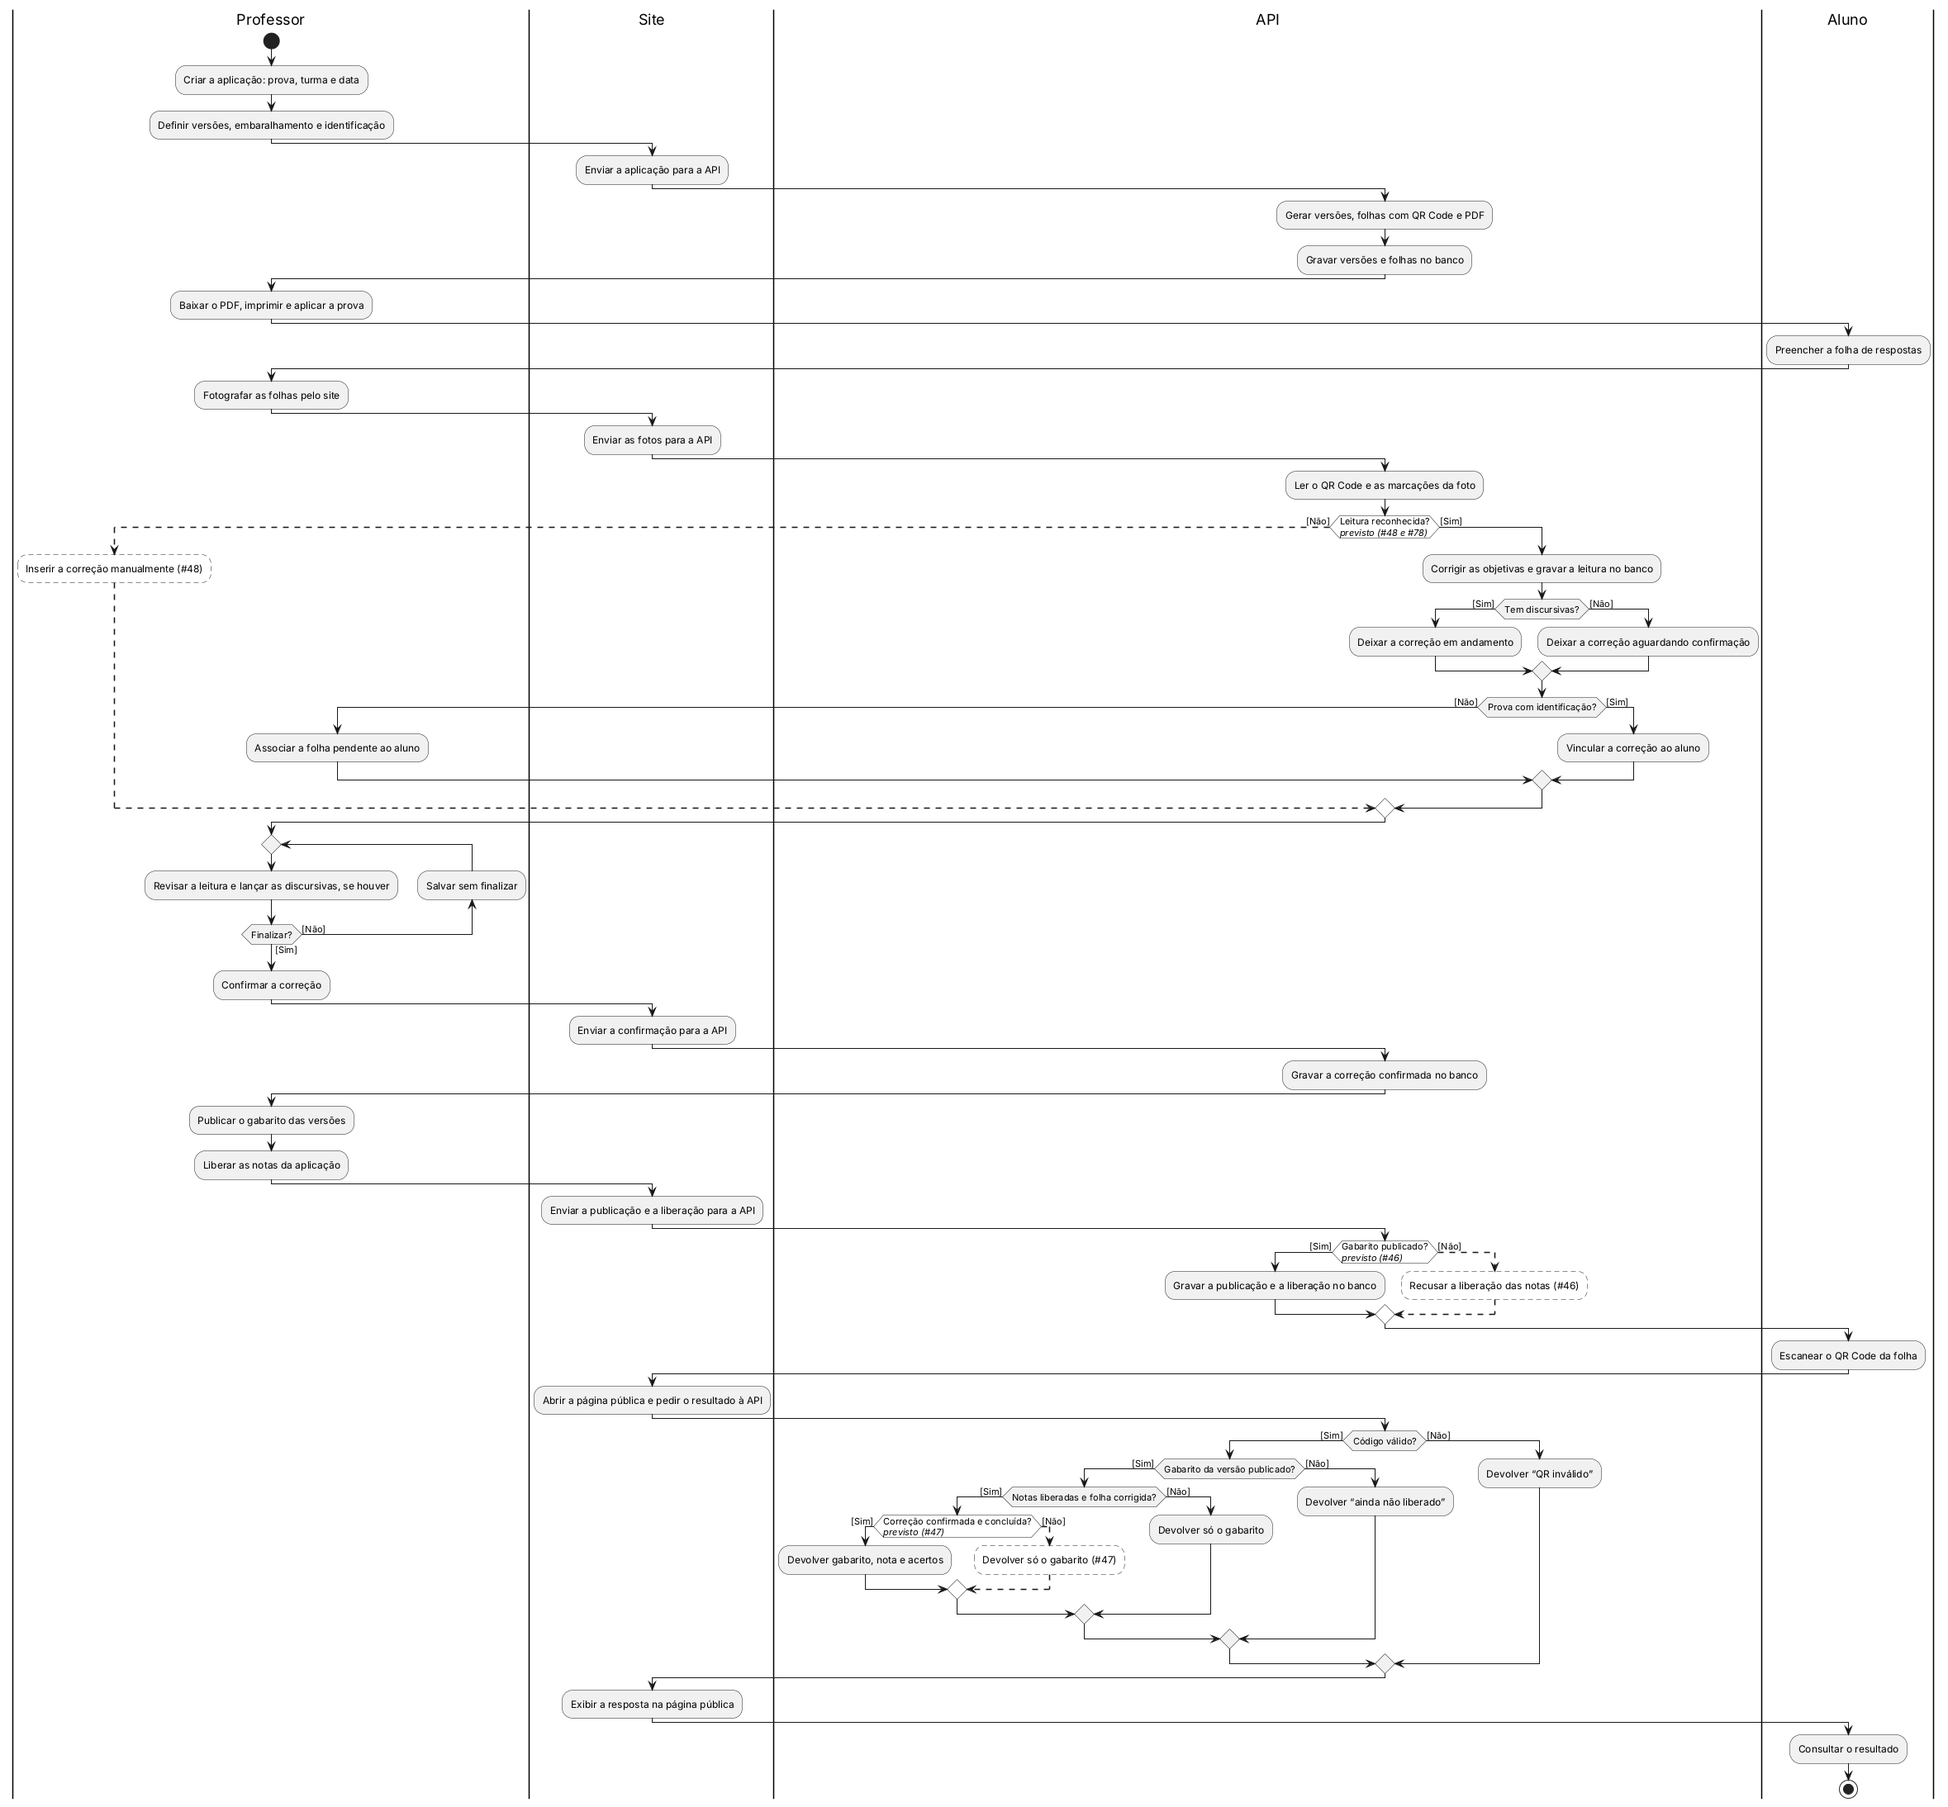
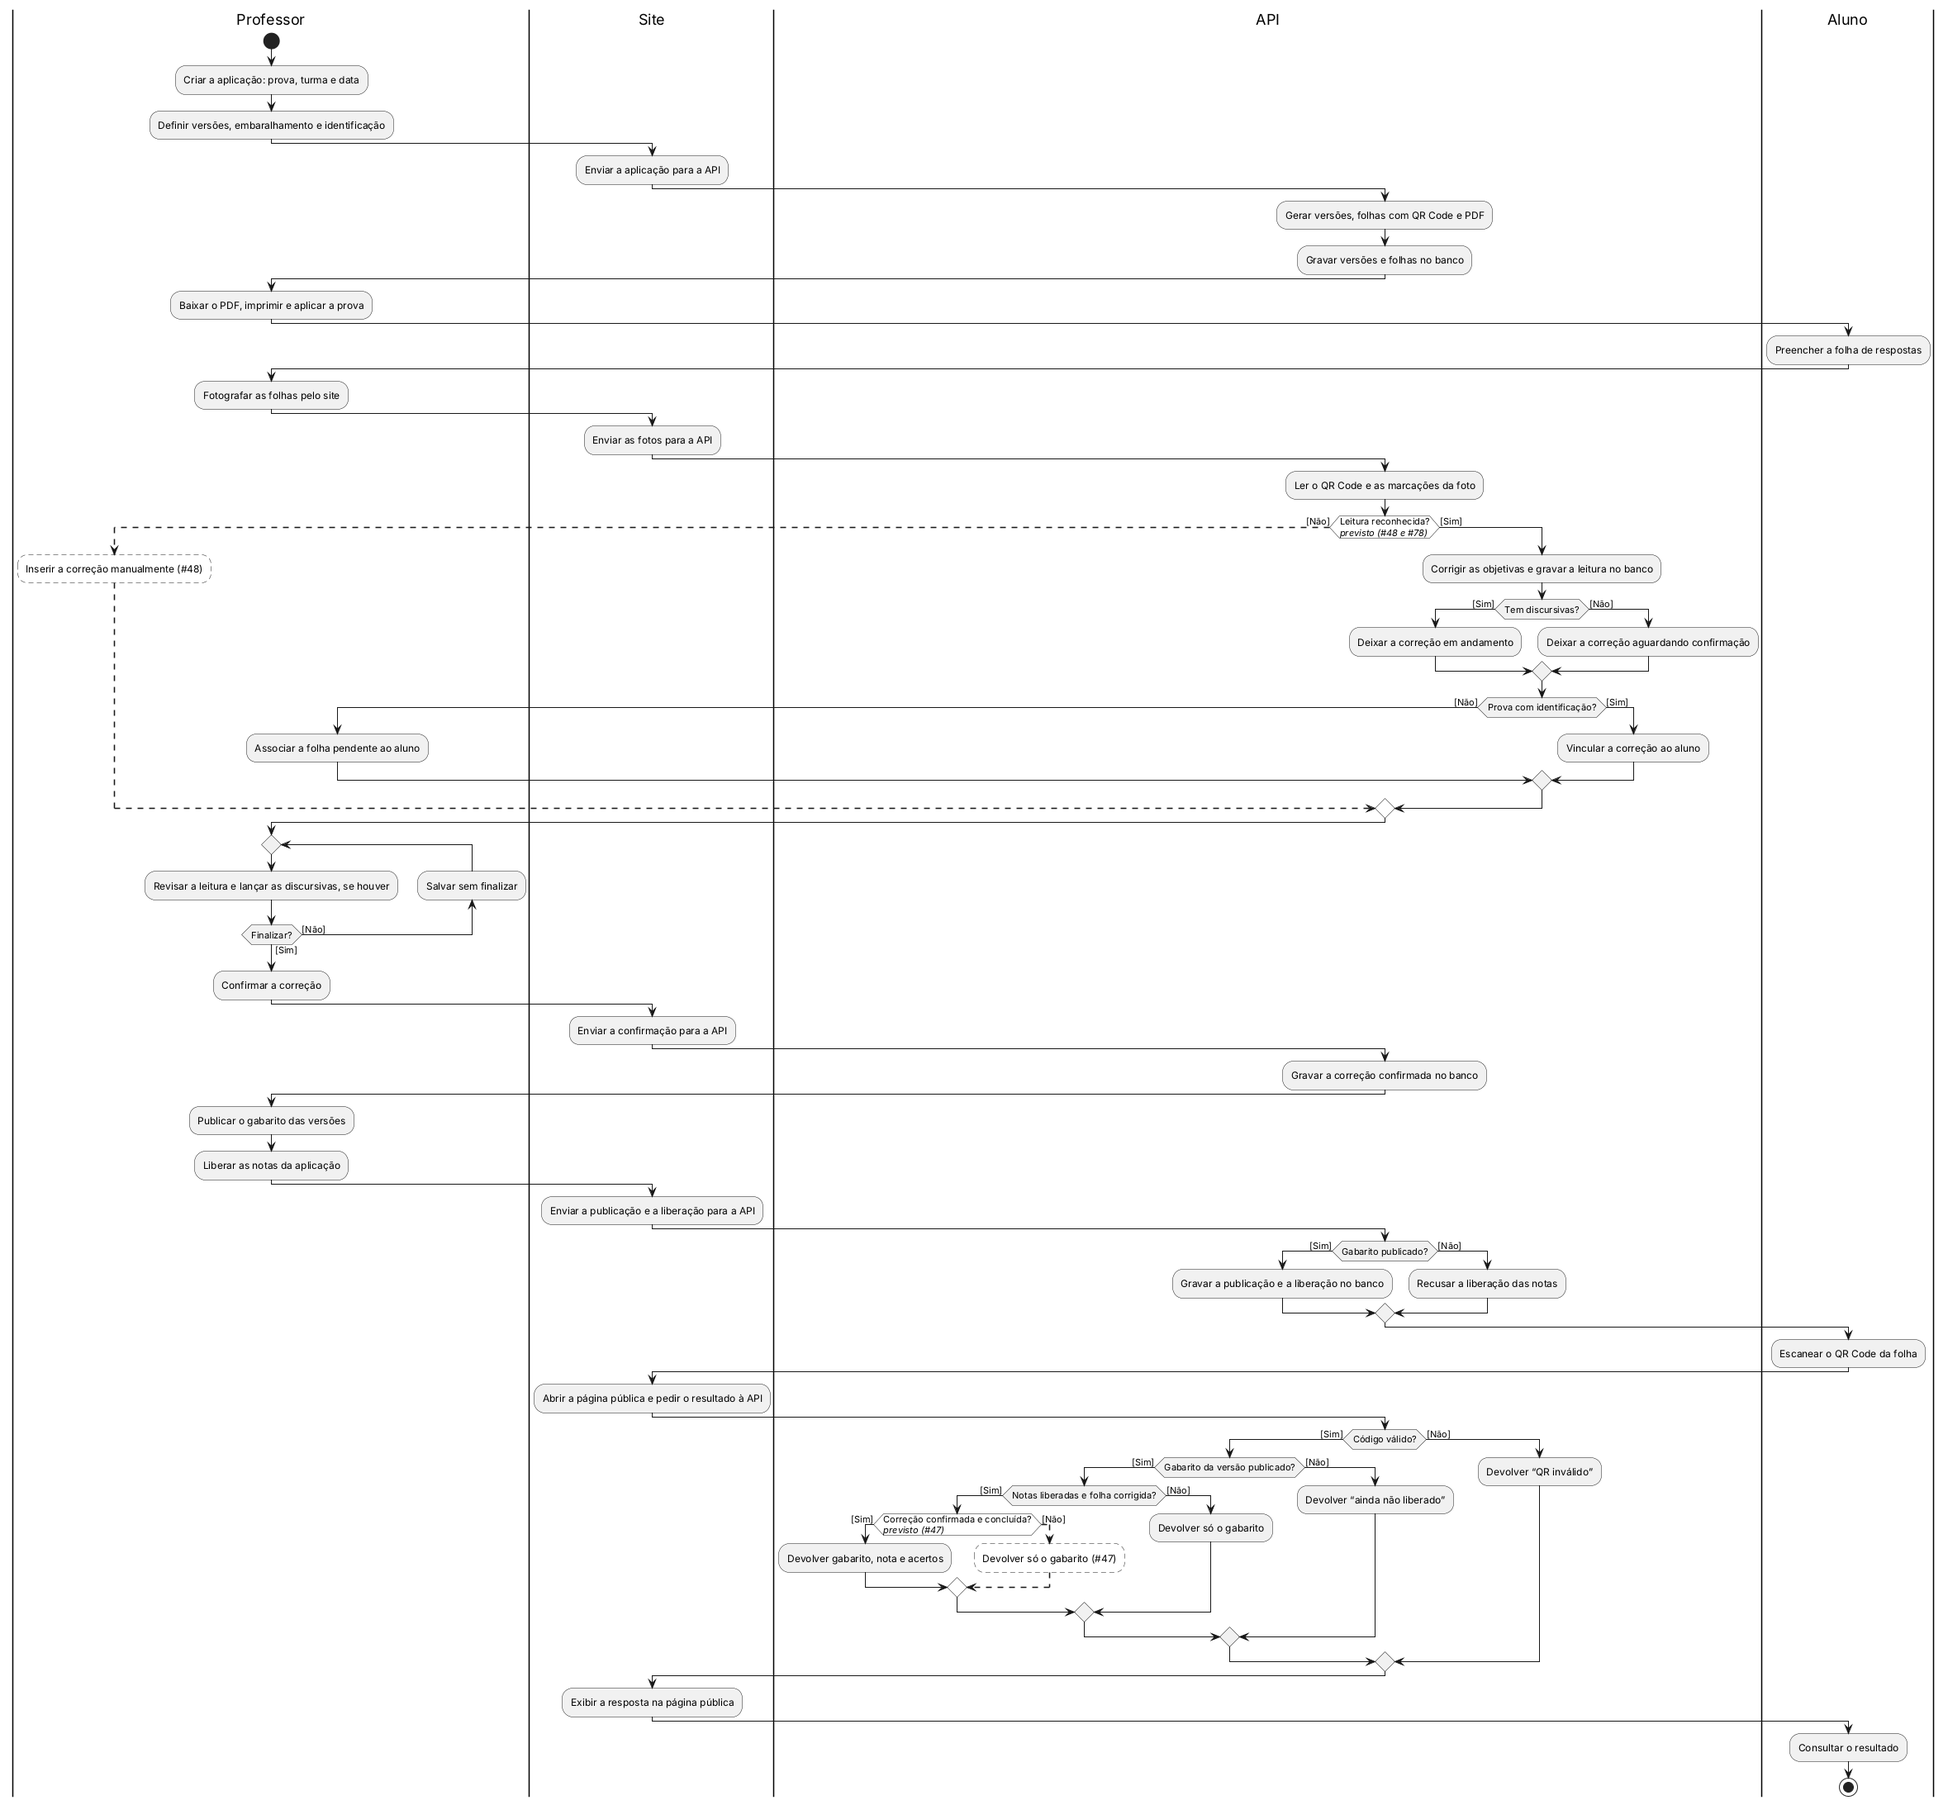
docs: describe the writes of applications and draw the answer key check solid
The API README describes creating, editing and generating an application,
the refusals of the generation and the newest-first list, and the exams
section says who calls markReady.

In the activity diagram, "Gabarito publicado?" turns from planned to solid:
the API refuses releasing the grades without the answer key since part 1 of
#46. The image is generated again with PlantUML 1.2025.8, and the document
keeps the two points still planned, for #47 and #48.

diff --git a/docs/uml/activity-diagram/activity-diagram.md b/docs/uml/activity-diagram/activity-diagram.md
@@ -68,8 +68,7 @@ diagrama, com a issue que os implementa ao lado, e viram linha cheia quando essa
 12. O Site envia a confirmação para a API, que grava a correção confirmada no banco.
 13. O Professor publica o gabarito das versões e libera as notas da aplicação, e o Site envia
     a publicação e a liberação para a API.
-14. **Decisão:** o gabarito está publicado? _Previsto na N2 ([#46]): hoje "Liberar notas"
-    funciona mesmo sem o gabarito publicado (tela P14)._
+14. **Decisão:** o gabarito está publicado?
     - **[Sim]** → a API grava a publicação e a liberação no banco.
     - **[Não]** → a API recusa a liberação das notas.
 15. O Aluno escaneia o QR Code da folha, e o Site abre a página pública, sem login, e pede o
@@ -102,7 +101,7 @@ outra que o dado sai do navegador e chega ao banco.
 | ------------- | ------------------------------------------------------- | ------------------------------------------------------------------------------------------------------------------------------------------------------------------------------------------------------------------------------------------------------------------------------------------------------------------------------------------------ |
 | **Professor** | Único usuário com login                                 | Criar a aplicação; definir versões, embaralhamento e identificação; baixar o PDF, imprimir e aplicar a prova; fotografar as folhas pelo site; inserir a correção manualmente quando a leitura falha (previsto); associar a folha pendente ao aluno; revisar, lançar as discursivas e confirmar a correção; publicar o gabarito; liberar as notas |
 | **Site**      | O front-end em React, aberto no navegador               | Enviar para a API a aplicação, as fotos, a confirmação, a publicação e a liberação; abrir a página pública do QR Code e exibir a resposta da API                                                                                                                                                                                                 |
-| **API**       | O back-end em Express, a única parte que acessa o MySQL | Gerar versões, folhas com QR Code e PDF; ler o QR Code e as marcações; corrigir as objetivas; controlar o status da correção; vincular a correção ao aluno; gravar tudo no banco; decidir o que a página pública mostra; recusar a liberação das notas sem gabarito publicado (previsto)                                                         |
+| **API**       | O back-end em Express, a única parte que acessa o MySQL | Gerar versões, folhas com QR Code e PDF; ler o QR Code e as marcações; corrigir as objetivas; controlar o status da correção; vincular a correção ao aluno; gravar tudo no banco; decidir o que a página pública mostra; recusar a liberação das notas sem gabarito publicado                                                         |
 | **Aluno**     | Não tem conta; é um registro dentro da turma            | Preencher a folha de respostas; escanear o QR Code da folha; consultar o resultado                                                                                                                                                                                                                                                               |
 
 **Por que o banco não é uma raia:** o MySQL não toma decisões nem começa atividades; ele só
@@ -157,9 +156,10 @@ casos, o professor pode salvar sem finalizar e voltar depois, até confirmar a c
 ### Etapa 5 — Publicação e consulta pelo QR Code
 
 Por fim, incluímos a publicação do gabarito, a liberação das notas e os quatro resultados
-possíveis da página do QR Code (PUB1), todos decididos pela API. Dois pontos desta etapa
-ficam tracejados: a recusa da liberação sem o gabarito publicado (P14, [#46]) e a nota só
-depois da confirmação do professor (RNF07 e RF47, [#47]). Esta é a versão final.
+possíveis da página do QR Code (PUB1), todos decididos pela API. Um ponto desta etapa fica
+tracejado: a nota só depois da confirmação do professor (RNF07 e RF47, [#47]). A recusa da
+liberação sem o gabarito publicado (P14) já é linha cheia: a API faz essa conferência desde a
+[#46]. Esta é a versão final.
 
 ![Diagrama de atividades do Correctio, versão final](activity-diagram.png)
 
@@ -176,17 +176,16 @@ O PlantUML não desenha losango tracejado. Por isso, a decisão prevista aparece
 e "previsto" no rótulo, e o caminho que ela cria fica tracejado. Enquanto a issue não mergeia,
 o fluxo passa por esse losango sempre pelo caminho de linha cheia.
 
-Na N1, três pontos eram tracejados. Eles continuam tracejados na N2, porque as issues que os
-implementam ainda estão abertas:
+Na N1, três pontos eram tracejados. O "Gabarito publicado?" virou linha cheia com a [#46]; os
+outros dois continuam tracejados, porque as issues que os implementam ainda estão abertas:
 
 | Ponto tracejado                                                  | Como aparece no diagrama                                                             | Vira linha cheia quando mergear |
 | ---------------------------------------------------------------- | ------------------------------------------------------------------------------------ | ------------------------------- |
 | "Leitura reconhecida?" e "Inserir a correção manualmente" (RF30) | "Leitura reconhecida? previsto (#48 e #78)" e "Inserir a correção manualmente (#48)" | [#48] e [#78]                   |
 | Nota só depois da confirmação do professor (RNF07 e RF47)        | "Correção confirmada e concluída? previsto (#47)" e "Devolver só o gabarito (#47)"   | [#47]                           |
-| "Gabarito publicado?" antes de liberar as notas (tela P14)       | "Gabarito publicado? previsto (#46)" e "Recusar a liberação das notas (#46)"         | [#46]                           |
 
-A troca para linha cheia é um item do checklist da [#46], da [#47] e da [#48]: quem fechar cada
-uma atualiza o diagrama, como mostra o apêndice.
+A troca para linha cheia é um item do checklist da [#47] e da [#48]: quem fechar cada uma
+atualiza o diagrama, como mostra o apêndice.
 
 ### O que muda da N1 para a N2
 
@@ -212,8 +211,8 @@ Checklist usado para conferir o resultado antes de fechar:
       seguir.
 - [x] O laço "Salvar sem finalizar" volta para a revisão, sem repetir o envio da foto.
 - [x] Quem grava no banco é sempre a API, e o nome da atividade diz isso.
-- [x] Os três pontos previstos (RF30, RNF07 e RF47, P14) estão tracejados, com a issue ao
-      lado, e a legenda diz quando viram linha cheia.
+- [x] Os pontos previstos (RF30, RNF07 e RF47) estão tracejados, com a issue ao lado, e a
+      legenda diz quando viram linha cheia.
 - [x] O fluxo cobre RF26 a RF33, RF46, RF47, RNF07 e as telas P14, P15, P16, P17 e PUB1.
 
 ---
@@ -248,8 +247,8 @@ Notação do PlantUML usada nos arquivos:
 | Atividade           | `:Enviar as fotos para a API;`                                                             |
 | Decisão             | `if (Leitura reconhecida?) then ([Não]) … else ([Sim]) … endif`                            |
 | Laço                | `repeat … backward:Salvar sem finalizar; repeat while (Finalizar?) is ([Não]) not ([Sim])` |
-| Decisão prevista    | `if <<planned>> (Gabarito publicado?\n<i>previsto (#46)</i>) then ([Sim])`                 |
-| Atividade tracejada | `:Recusar a liberação das notas (#46); <<planned>>`                                        |
+| Decisão prevista    | `if <<planned>> (Correção confirmada e concluída?\n<i>previsto (#47)</i>) then ([Sim])`    |
+| Atividade tracejada | `:Devolver só o gabarito (#47); <<planned>>`                                               |
 | Seta tracejada      | `-[dashed]->`, na linha antes e na linha depois da atividade tracejada                     |
 
 Quando a issue de um ponto tracejado mergear, passe o ponto para linha cheia:

diff --git a/apps/api/README.md b/apps/api/README.md
@@ -130,17 +130,40 @@ com as mesmas regras das telas, sem cópia.
 
 ### Aplicações
 
-As rotas de aplicação trabalham, por enquanto, sobre aplicações que já existem. Criar, editar e
-gerar (`POST /applications`, `PATCH /applications/:id` e `POST /applications/:id/generate-pdf`)
-leem a prova e chegam junto com as provas da #45.
+`GET` e `POST /applications`, `GET` e `PATCH /applications/:id`, arquivar e restaurar, a geração
+(`POST /applications/:id/generate-pdf`), as versões, as folhas, o gabarito, as notas e o PDF.
 
-- **Lista:** além dos parâmetros de lista, aceita `classId`, `examId` e `status`, da mais antiga
-  para a mais recente. A busca procura o dia, escrito como a tela mostra (`05/10/2026`) ou como
+- **Lista:** além dos parâmetros de lista, aceita `classId`, `examId` e `status`, da mais recente
+  para a mais antiga. A busca procura o dia, escrito como a tela mostra (`05/10/2026`) ou como
   ISO (`2026-10-05`), inteiro ou em parte. Cada `status` fica de um lado só do `archived`:
   `closed` só entre as arquivadas, `draft` e `generated` só entre as ativas. Pedir um `status` do
   outro lado responde 400, em vez de uma lista vazia que pareceria "não há nenhuma".
+- **Criar:** `POST /applications` recebe `{ examId, classId, date }` e a aplicação nasce `draft`,
+  com as notas recolhidas. Prova ou turma de outro professor responde 404; arquivada responde 409
+  (RF20). A mesma prova, para a mesma turma, no mesmo dia, é a mesma aplicação, contando as
+  arquivadas, e responde 409 com as mensagens das telas. A conferência roda com a linha da prova
+  travada, então dois cliques não gravam a mesma aplicação duas vezes.
+- **Editar:** `PATCH /applications/:id` mescla e grava só o que veio. Depois de gerar, só a data
+  muda, porque as folhas impressas são daquela prova e daquela turma. Aplicação arquivada não é
+  editada até ser restaurada. Só o que muda é conferido: uma aplicação cuja prova foi arquivada
+  depois continua mudando de data.
 - **Restaurar** devolve a aplicação arquivada como `draft`, nunca como `generated`; uma que não
   está arquivada fica como está.
+- **Gerar (RF22 a RF24):** `POST /applications/:id/generate-pdf` recebe
+  `{ versions: [{ shuffleQuestions, shuffleAlternatives }], withStudentIdentification }`, de 1 a 6
+  versões, e usa o limite das rotas caras (10 por hora por professor).
+  - Lê a prova pelo serviço de provas, as questões pelo id, inclusive as excluídas do banco depois
+    de entrar na prova, e os alunos da turma que não foram removidos nem anonimizados, em ordem de
+    nome.
+  - Monta as versões, com o `layout`, e uma folha por aluno, com o `code` feito no servidor e o
+    `answerCardVersion` da geometria do cartão. Responde `{ versions, sheets }`.
+  - Desenha e guarda o PDF antes de mexer no banco. Depois, numa transação com a aplicação e as
+    folhas travadas, confere de novo se pode gerar, troca versões e folhas, marca a aplicação como
+    `generated` e aponta o `pdfUrl` para o PDF novo. O PDF anterior é apagado depois do commit, e a
+    prova vira `ready`.
+  - Responde 409 para aplicação arquivada, folha já corrigida (RF24), notas liberadas (as versões
+    novas nascem com o gabarito despublicado), prova sem questão, turma sem aluno ativo e questão
+    maior que uma página, com o número dela na prova.
 - **Versões e folhas** são listas `{ items, total }`, por `versionNumber` e `sheetNumber`.
 - **Gabarito e notas (RF46):** `POST /applications/:id/versions/:versionId/publish-answer-key`
   recebe `{ published }`. Liberar as notas exige o gabarito de todas as versões publicado, e o
@@ -162,8 +185,8 @@ leem a prova e chegam junto com as provas da #45.
   precisa continuar salvando.
 - **Título único**, comparado sem acento e sem maiúscula, contando as arquivadas, com as mesmas
   mensagens das telas.
-- **Status é do servidor:** nasce `draft`, vira `ready` quando a primeira aplicação é gerada (o
-  serviço tem `markReady` para a #46, sem rota), arquivar grava `closed` e restaurar volta para
+- **Status é do servidor:** nasce `draft`, vira `ready` quando a primeira aplicação é gerada (a
+  geração chama o `markReady` do serviço, sem rota), arquivar grava `closed` e restaurar volta para
   `draft`, nunca para `ready`. O `PATCH` mescla e ignora `status`, `id` e `teacherId`.
 - **Sorteio (RF16):** `POST /exams/draw` recebe `{ tags, multipleChoiceCount, openEndedCount,
   excludeIds }` e responde `{ questions, shortfall }`. Sorteia entre as questões ativas do
